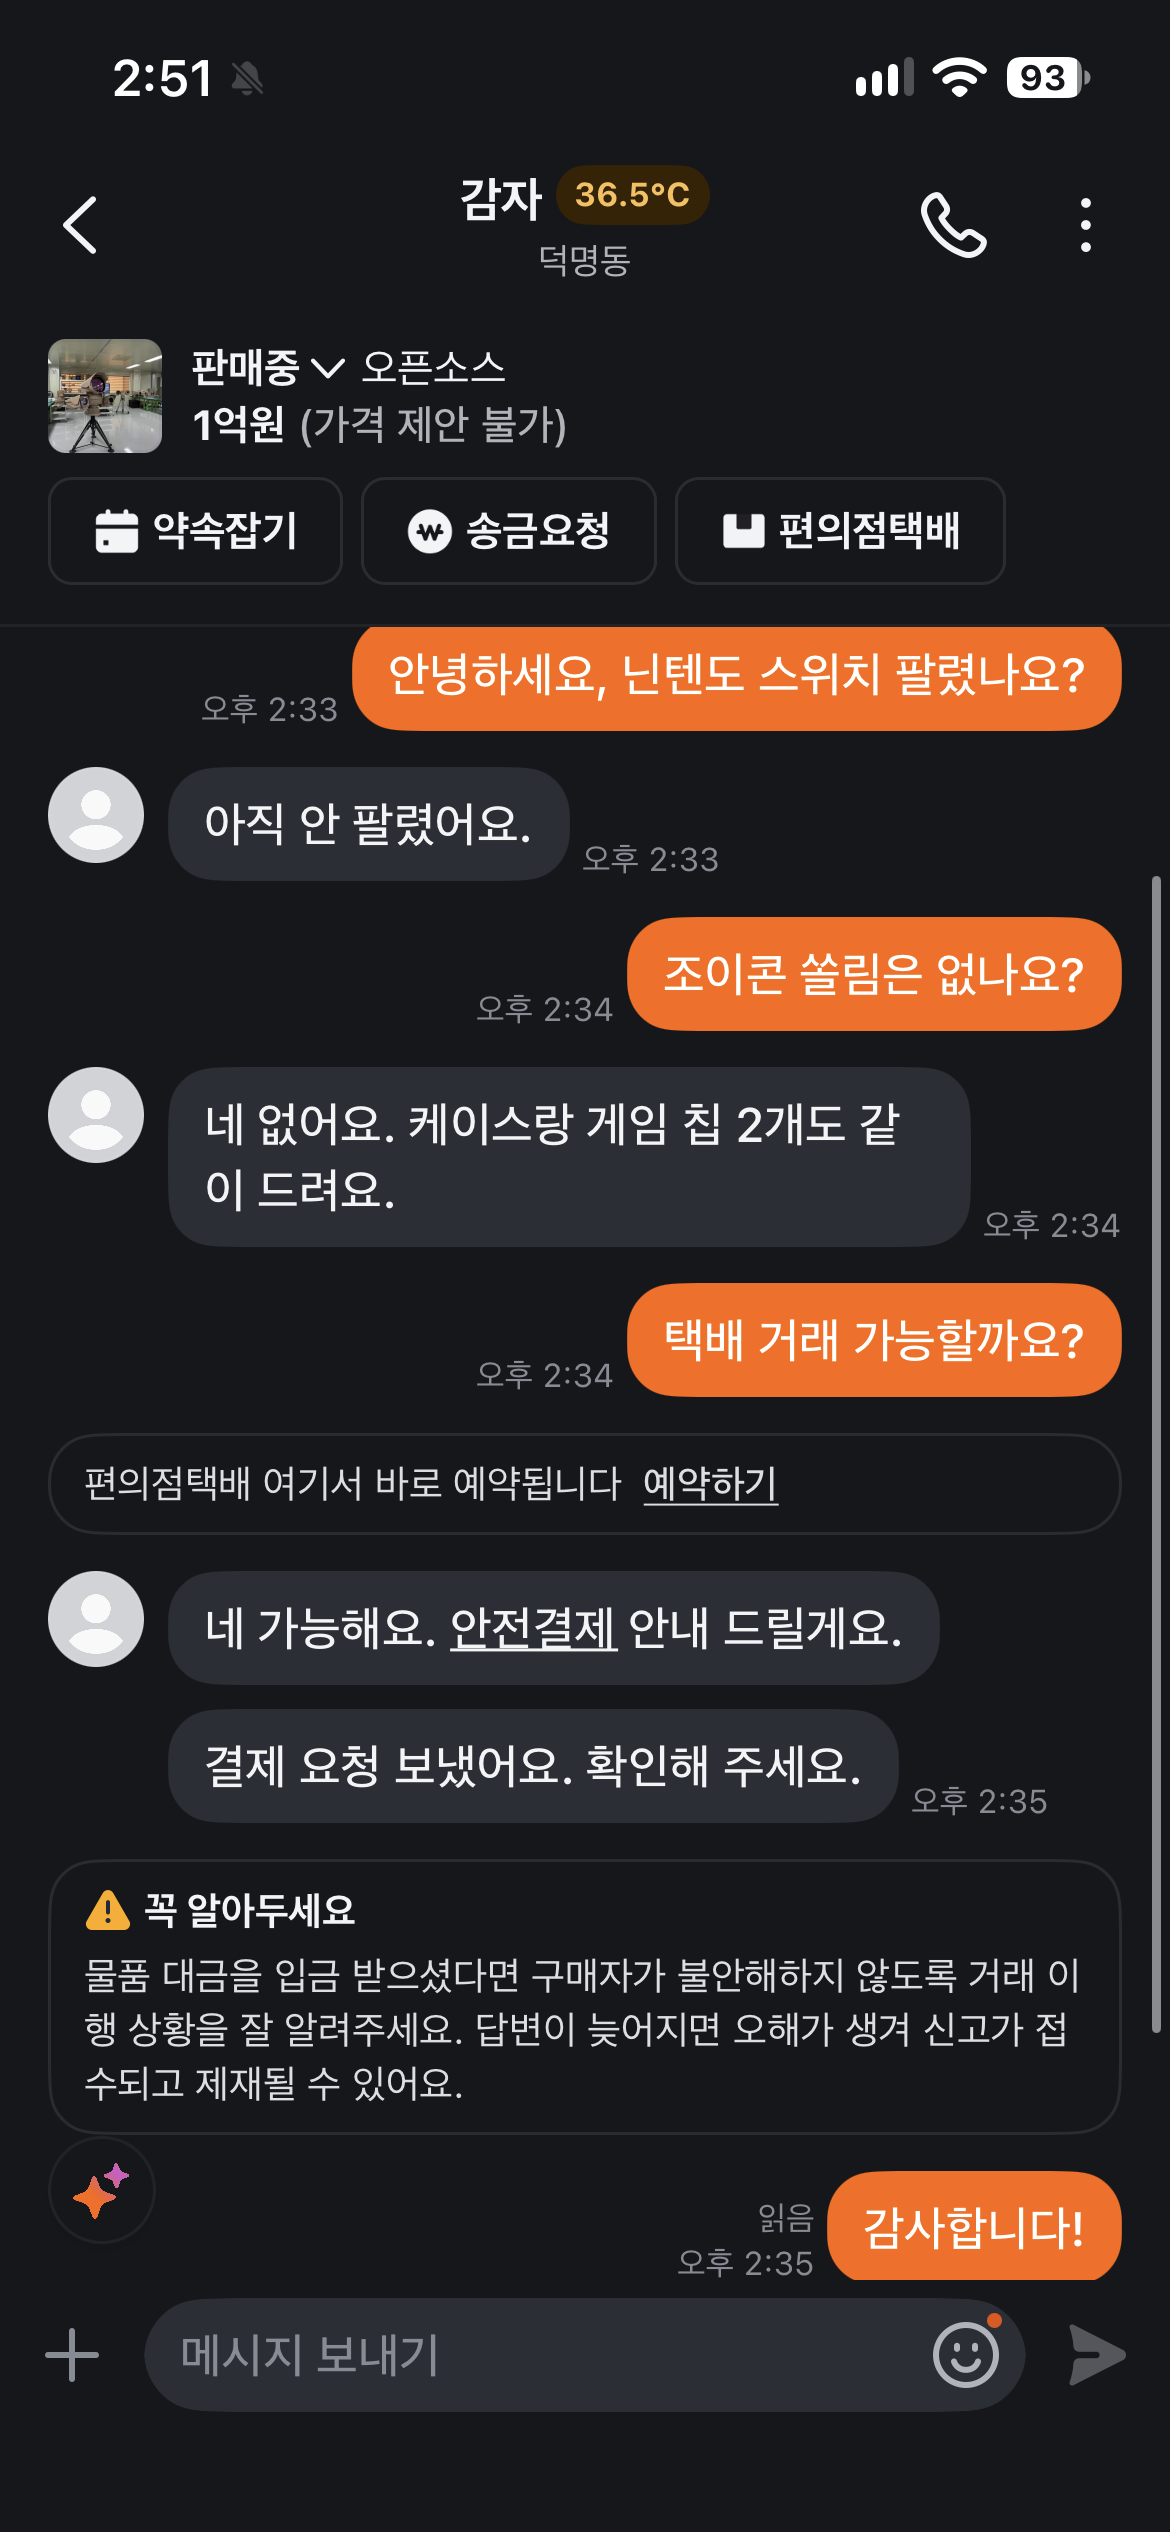
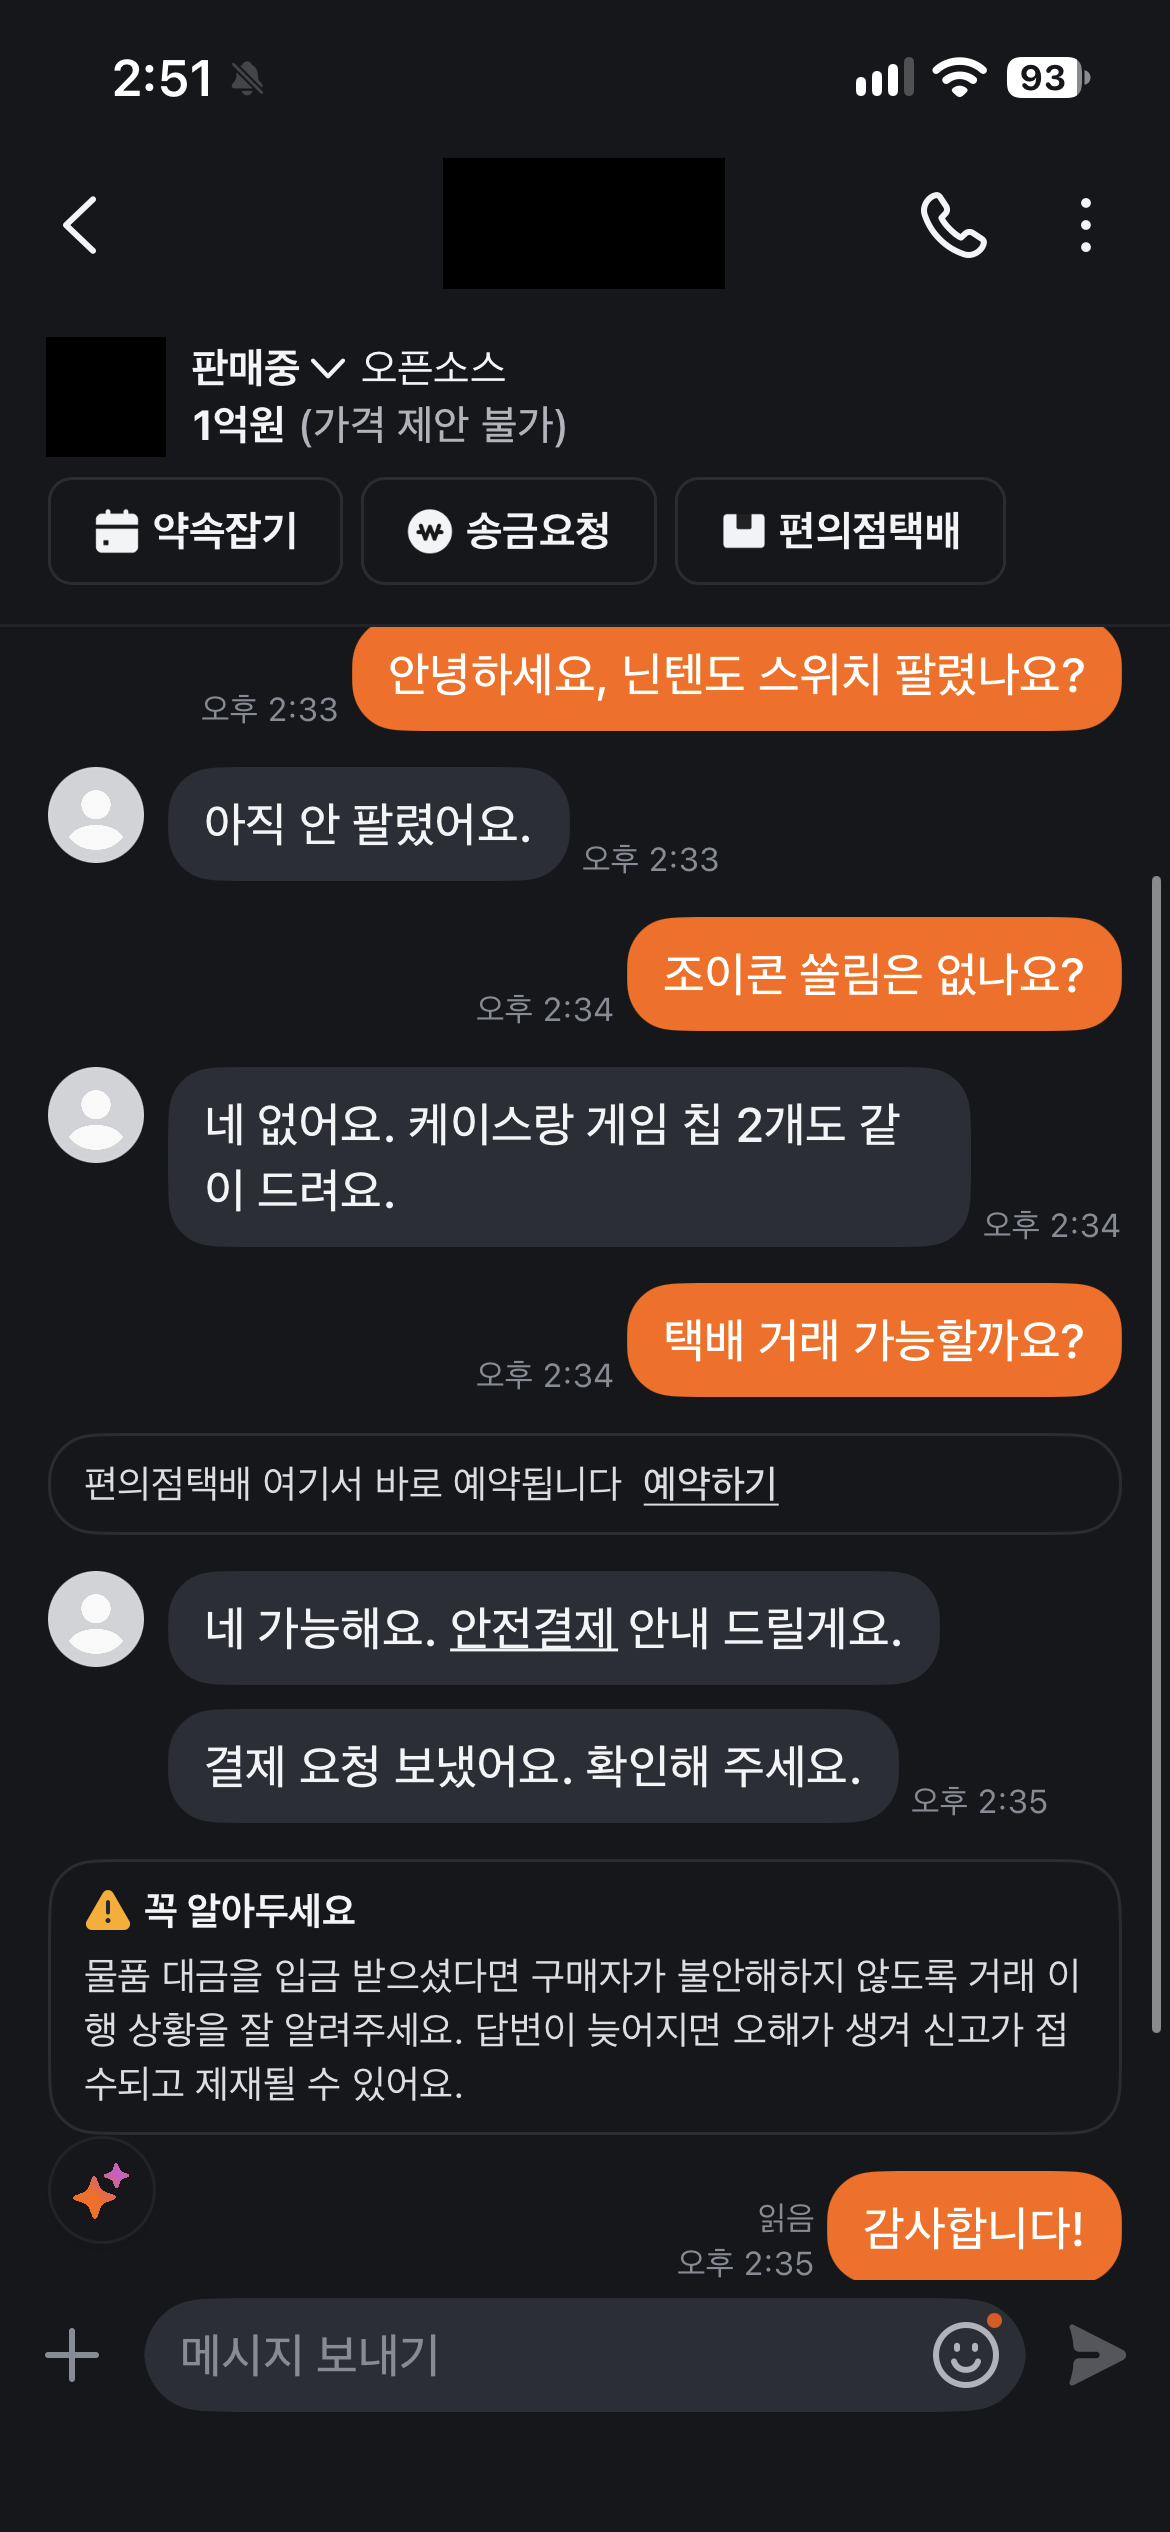
test: 캡처 개인정보 가리기 및 중고나라 파일 이름 수정

Changed region(s): [[0.3692, 0.0624, 0.6462, 0.1248], [0.0308, 0.1248, 0.1538, 0.1872]]

diff --git a/docs/samples.md b/docs/samples.md
@@ -7,6 +7,7 @@
 - 정상 10개 (N01~N10) — 그중 9개는 일부러 헷갈리게 만든 대화
 - 위험 10개 (R01~R10) — 신호 8종류를 한 번 이상씩 포함, R09·R10은 여러 신호
 - 실제 채팅처럼 인사·상태 질문·흥정 같은 평범한 말을 섞었고, 위험 신호는 대화 중간에 나오게 했습니다.
+- 캡처의 닉네임·실명·동네·상품 사진은 가렸습니다. 당근 화면 중간의 안내 문구(꼭 알아두세요, 안심결제 안내 등)는 앱이 실제로 띄운 것이라 그대로 두었습니다.
 - **기대 결과**: 사람이 판단한 정답 / **실제 결과**: `analyze()`를 돌린 결과
 
 ## 한눈에 보기
@@ -14,7 +15,7 @@
 | 번호 | 구분 | 내용 | 기대 level | 실제 level | 일치 | 캡처 |
 |---|---|---|---|---|---|---|
 | N01 | 정상 | 기본 정상 대화 | 특이 신호 없음 | 특이 신호 없음 | ✅ |  |
-| N02 | 정상(헷갈림) | 판매자가 '안전결제 안내'라고 말함 | 특이 신호 없음 | 특이 신호 없음 | ✅ | 당근 · 라이트 |
+| N02 | 정상(헷갈림) | 판매자가 '안전결제 안내'라고 말함 | 특이 신호 없음 | 특이 신호 없음 | ✅ | 당근 · 다크 |
 | N03 | 정상(헷갈림) | '입금 확인했어요' (입금 단어가 나옴) | 특이 신호 없음 | 특이 신호 없음 | ✅ |  |
 | N04 | 정상(헷갈림) | 구매자가 먼저 카톡을 물어봄 | 특이 신호 없음 | 특이 신호 없음 | ✅ |  |
 | N05 | 정상(헷갈림) | '안전결제도 가능해요' | 특이 신호 없음 | 특이 신호 없음 | ✅ |  |
@@ -22,8 +23,8 @@
 | N07 | 정상(헷갈림) | 판매자가 진짜 공식 주소 링크를 보냄 | 특이 신호 없음 | 특이 신호 없음 | ✅ |  |
 | N08 | 정상(헷갈림) | '우선 입금 말고' (선입금과 비슷한 글자) | 특이 신호 없음 | 특이 신호 없음 | ✅ |  |
 | N09 | 정상(헷갈림) | '온라인으로' 안에 '라인으로'가 들어 있음 | 특이 신호 없음 | 특이 신호 없음 | ✅ |  |
-| N10 | 정상(헷갈림) | 구매자만 '오늘 입금'이라고 말함 | 특이 신호 없음 | 특이 신호 없음 | ✅ | 번개장터 · 라이트 |
-| R01 | 위험 | 안전결제 거부 | 주의 | 주의 | ✅ | 당근 · 다크 |
+| N10 | 정상(헷갈림) | 구매자만 '오늘 입금'이라고 말함 | 특이 신호 없음 | 특이 신호 없음 | ✅ | 중고나라 · 라이트 |
+| R01 | 위험 | 안전결제 거부 | 주의 | 주의 | ✅ | 당근 · 라이트 |
 | R02 | 위험 | 빠른 입금 요구 | 주의 | 주의 | ✅ | 카카오톡 · 라이트 |
 | R03 | 위험 | 외부 메신저 이동 | 주의 | 주의 | ✅ |  |
 | R04 | 위험 | 계좌이체만 요구 | 주의 | 주의 | ✅ |  |
@@ -31,7 +32,7 @@
 | R06 | 위험 | 공식 사이트 사칭 | 주의 | 주의 | ✅ |  |
 | R07 | 위험 | 단축 URL | 주의 | 주의 | ✅ |  |
 | R08 | 위험 | IP 주소 링크 | 주의 | 주의 | ✅ |  |
-| R09 | 위험(여러 개) | 안전결제 거부 + 계좌이체만 | 여러 위험 신호 | 여러 위험 신호 | ✅ | 번개장터 · 다크 |
+| R09 | 위험(여러 개) | 안전결제 거부 + 계좌이체만 | 여러 위험 신호 | 여러 위험 신호 | ✅ | 중고나라 · 라이트 |
 | R10 | 위험(여러 개) | 텔레그램 + 선입금 + 단축 URL | 여러 위험 신호 | 여러 위험 신호 | ✅ |  |
 
 ---
@@ -230,7 +231,9 @@
 | level | 특이 신호 없음 | 특이 신호 없음 |
 | 신호 | 없음 | 없음 |
 
-캡처: ![N10 캡처](images/samples/N10_bunjang_light.png)
+캡처: ![N10 캡처](images/samples/N10_joongna_light.png)
+
+> 캡처 메모: 같은 채팅방의 이전 대화 한 줄과 PC 작업표시줄은 잘라 냈습니다. 화면 위의 '안심결제' 배너는 앱이 띄운 안내입니다.
 
 ## R01. 위험 — 안전결제 거부
 
@@ -403,7 +406,9 @@
 | level | 여러 위험 신호 | 여러 위험 신호 |
 | 신호 | `BANK_TRANSFER_ONLY` (계좌이체만 요구), `SAFE_PAYMENT_REFUSAL` (안전결제 거부) | `BANK_TRANSFER_ONLY` (계좌이체만 요구), `SAFE_PAYMENT_REFUSAL` (안전결제 거부) |
 
-캡처: ![R09 캡처](images/samples/R09_bunjang_light.png)
+캡처: ![R09 캡처](images/samples/R09_joongna_light.png)
+
+> 캡처 메모: 대화와 상관없는 '.' 말풍선 하나를 지웠습니다. 화면 위의 '안심결제' 배너는 앱이 띄운 안내입니다.
 
 ## R10. 위험(여러 개) — 텔레그램 + 선입금 + 단축 URL
 
